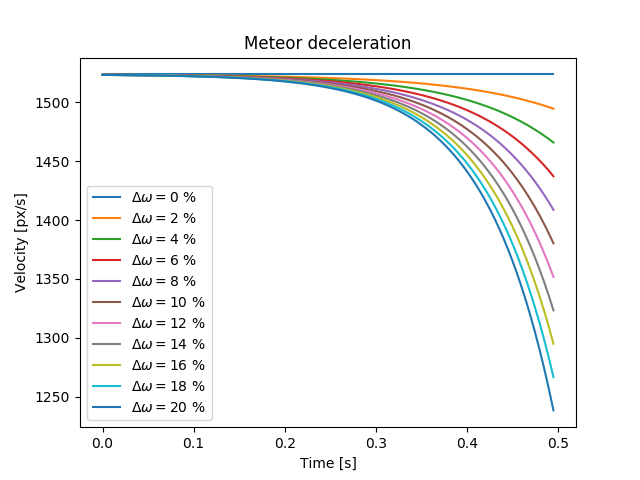
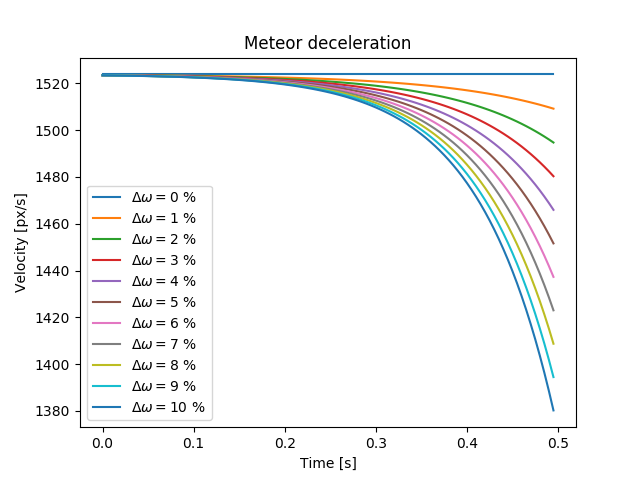
changed deceleration parameters in simulations

diff --git a/Source/ODN-Rv_corrSim.py b/Source/ODN-Rv_corrSim.py
@@ -32,7 +32,8 @@ for noise in par.noise_scale_arr:
 		t_meteor = st.timeFromAngle(par.phi, omega_iter, par.img_x, par.img_y, par.scale, par.fps)
 
 		# Get deceleration parameters
-		dec_arr = [1, st.getparam(1, omega_iter, omega_iter*0.9, t_meteor)]
+		a = 1e-3
+		dec_arr = [a, st.getparam(a, omega_iter, omega_iter*0.9, t_meteor)]
 		print('Deceleration parameters: ', dec_arr)
 
 		# Get average model - centroid point difference for each meteor

diff --git a/Source/ODN-Rtemp_corrSim.py b/Source/ODN-Rtemp_corrSim.py
@@ -47,7 +47,8 @@ for noise in par.noise_scale_arr:
 		t_meteor = st.timeFromAngle	(phi, omega, par.img_x, par.img_y, par.scale, par.fps)
 
 		# Find the deceleration parameters
-		dec_arr = [1, st.getparam(1, omega, 0.9*omega, t_meteor)]
+		a = 1e-3
+		dec_arr = [a, st.getparam(a, omega, 0.9*omega, t_meteor)]
 		print('Deceleration parameters: ', dec_arr)
 
 

diff --git a/Figures/Source/dec_generator.py b/Figures/Source/dec_generator.py
@@ -10,8 +10,8 @@ import matplotlib.pyplot as plt
 omega_start = 50
 
 start = 0
-fin = omega_start*0.21
-step = omega_start*0.02
+fin = omega_start*0.11
+step = omega_start*0.01
 delta_omega = np.arange(start, fin, step)
 
 print(delta_omega)
